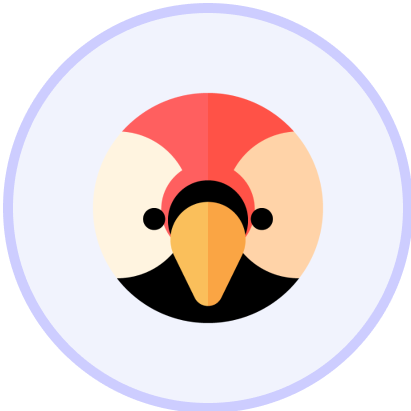
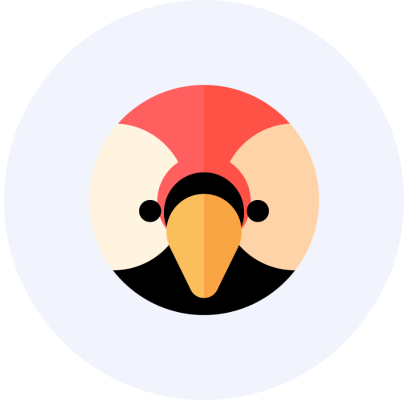
search.png, info_icon_1.png, 프로필 아이콘(코기, 피기, 앵무, 햄, 패드로) 선택 이미지 변경

diff --git a/lib/view/meet/meet_user_info.dart b/lib/view/meet/meet_user_info.dart
@@ -124,10 +124,19 @@ class MeetUserInfo extends StatelessWidget {
               SizedBox(width: 23.0.w),
               Stack(
                 children: [
-                  Image.asset(
-                    user.profile_icon,
-                    height: 120.h,
-                    width: 120.w,
+                  Container(
+                    decoration: BoxDecoration(
+                      border: Border.all(
+                        color: UsedColor.b_line,
+                        width: 1.5.h,
+                      ),
+                      borderRadius: BorderRadius.circular(120.r),
+                    ),
+                    child: Image.asset(
+                      user.profile_icon,
+                      height: 120.h,
+                      width: 120.w,
+                    ),
                   ),
                   Positioned(
                     top: 15.0.h,
@@ -140,7 +149,12 @@ class MeetUserInfo extends StatelessWidget {
                         shape: BoxShape.circle,
                       ),
                       child: Padding(
-                        padding: EdgeInsets.all(4.0.w),
+                        padding: EdgeInsets.only(
+                          top: 4.0.h,
+                          right: 4.0.w,
+                          left: 5.0.w,
+                          bottom: 5.0.h,
+                        ),
                         child: Image.asset(
                           ImagePath.infoIcon1,
                           height: 18.h,

diff --git a/lib/view/sign_up/sign_up_detail/sign_up_detail_five.dart b/lib/view/sign_up/sign_up_detail/sign_up_detail_five.dart
@@ -19,19 +19,18 @@ class SignUpDetailFive extends StatelessWidget {
       body: Column(
         crossAxisAlignment: CrossAxisAlignment.start,
         children: [
-         
-            Padding(
-              padding: EdgeInsets.only(
-                top: 58.h,
-              ),
-              child: _header(context),
+          Padding(
+            padding: EdgeInsets.only(
+              top: 58.h,
             ),
+            child: _header(context),
+          ),
           SizedBox(height: 17.h),
           _progressBar(),
           _main(context),
           const Spacer(),
           Padding(
-            padding: EdgeInsets.only(left: 32.w, right: 33.w, bottom: 25.h),
+            padding: EdgeInsets.only(left: 32.w, right: 33.w, bottom: 56.h),
             child: _bottom(context),
           ),
         ],
@@ -175,9 +174,7 @@ class SignUpDetailFive extends StatelessWidget {
                     color: isSelected ? UsedColor.button : Colors.white,
                     borderRadius: BorderRadius.circular(14.r),
                     border: Border.all(
-                      color: isSelected
-                          ? UsedColor.button
-                          : UsedColor.b_line,
+                      color: isSelected ? UsedColor.button : UsedColor.b_line,
                       width: 2.5.w,
                     ),
                   ),

diff --git a/lib/view/sign_up/sign_up_detail/sign_up_detail_two.dart b/lib/view/sign_up/sign_up_detail/sign_up_detail_two.dart
@@ -32,7 +32,7 @@ class SignUpDetailTwo extends StatelessWidget {
           _main(context),
           const Spacer(),
           Padding(
-            padding: EdgeInsets.only(left: 32.w, right: 33.w, bottom: 25.h),
+            padding: EdgeInsets.only(left: 32.w, right: 33.w, bottom: 56.h),
             child: _bottom(context),
           ),
         ],
@@ -236,11 +236,26 @@ Widget _buildProfileImage(BuildContext context, String imagePath) {
       padding: EdgeInsets.only(
         left: 13.0.h,
       ),
-      child: Image.asset(
-        isSelected ? signUpDetailViewModel.getIconPath() : imagePath,
-        width: 100.0.h,
-        height: 100.0.h,
-        fit: BoxFit.contain,
+      child: Container(
+        width: 100.w,
+        height: 100.h,
+        decoration: BoxDecoration(
+          border: isSelected
+              ? Border.all(
+                  color: UsedColor.b_line_2,
+                  width: 2.5.h,
+                )
+              : Border.all(
+                  color: Colors.white,
+                ),
+          borderRadius: BorderRadius.circular(100.r),
+        ),
+        child: Image.asset(
+          isSelected ? signUpDetailViewModel.getIconPath() : imagePath,
+          width: 100.w,
+          height: 100.h,
+          fit: BoxFit.cover,
+        ),
       ),
     ),
   );

diff --git a/lib/view/meet/meet_keyword.dart b/lib/view/meet/meet_keyword.dart
@@ -266,16 +266,15 @@ class MeetKeyWord extends StatelessWidget {
             }
           },
           height: 56.h,
-          text: meetKeywordViewModel.keywordCheckComplted ? '저장' : '저장',
+          text: '저장',
           enable: meetKeywordViewModel.keywordCheckComplted,
           backgroundColor: meetKeywordViewModel.keywordCheckComplted
               ? UsedColor.button
               : UsedColor.button_g,
-          textStyle: TextStyle(
-            color: meetKeywordViewModel.keywordCheckComplted
-                ? Colors.white
-                : UsedColor.text_2,
-          ),
+          textStyle: AppTextStyles.PR_SB_20.copyWith(
+              color: meetKeywordViewModel.keywordCheckComplted
+                  ? Colors.white
+                  : UsedColor.text_2),
         );
       }),
     );

diff --git a/lib/view/meet/meet_create.dart b/lib/view/meet/meet_create.dart
@@ -724,7 +724,7 @@ class MeetCreate extends StatelessWidget {
                 ],
               ),
             );
-          }).toList(),
+          }),
         ],
       ),
     );
@@ -776,11 +776,10 @@ class MeetCreate extends StatelessWidget {
           backgroundColor: viewModel.allCheckCompleted
               ? UsedColor.button
               : UsedColor.button_g,
-          textStyle: TextStyle(
-            color:
-                viewModel.allCheckCompleted ? Colors.white : UsedColor.text_2,
-            fontSize: 20.sp,
-          ),
+          textStyle: AppTextStyles.PR_SB_20.copyWith(
+              color: viewModel.allCheckCompleted
+                  ? Colors.white
+                  : UsedColor.text_2),
         );
       },
     );

diff --git a/lib/view/meet/meet_category.dart b/lib/view/meet/meet_category.dart
@@ -293,12 +293,12 @@ class MeetCategory extends StatelessWidget {
             }
           },
           height: 56.h,
-          text: viewModel.isCategorySelectionComplete ? '저장' : '저장 안됨',
+          text: '저장',
           enable: viewModel.isCategorySelectionComplete,
           backgroundColor: viewModel.isCategorySelectionComplete
               ? UsedColor.button
               : UsedColor.button_g,
-          textStyle: TextStyle(
+          textStyle: AppTextStyles.PR_SB_20.copyWith(
             color: viewModel.isCategorySelectionComplete
                 ? Colors.white
                 : UsedColor.text_2,

diff --git a/lib/view/meet/meet_location.dart b/lib/view/meet/meet_location.dart
@@ -366,12 +366,10 @@ class MeetLocation extends StatelessWidget {
           backgroundColor: viewModel.isLocationSelectionComplete
               ? UsedColor.button
               : UsedColor.button_g,
-          textStyle: TextStyle(
-            color: viewModel.isLocationSelectionComplete
-                ? Colors.white
-                : UsedColor.text_2,
-            fontSize: 20.sp,
-          ),
+          textStyle: AppTextStyles.PR_SB_20.copyWith(
+              color: viewModel.isLocationSelectionComplete
+                  ? Colors.white
+                  : UsedColor.text_2),
         );
       },
     );

diff --git a/lib/view/meet/meet_filter_area.dart b/lib/view/meet/meet_filter_area.dart
@@ -357,12 +357,10 @@ class MeetFilterArea extends StatelessWidget {
           backgroundColor: viewModel.isAreaSelectionComplete
               ? UsedColor.button
               : UsedColor.button_g,
-          textStyle: TextStyle(
-            color: viewModel.isAreaSelectionComplete
-                ? Colors.white
-                : UsedColor.text_2,
-            fontSize: 20.sp,
-          ),
+          textStyle: AppTextStyles.PR_SB_20.copyWith(
+              color: viewModel.isAreaSelectionComplete
+                  ? Colors.white
+                  : UsedColor.text_2),
         );
       },
     );

diff --git a/lib/view/sign_up/sign_up_detail/sign_up_detail_one_contents.dart b/lib/view/sign_up/sign_up_detail/sign_up_detail_one_contents.dart
@@ -10,7 +10,7 @@ import 'package:meet_up/view_model/sign_up/sign_up_detail_view_model.dart';
 import 'package:provider/provider.dart';
 
 class SignUpDetailOneContents extends StatelessWidget {
-  const SignUpDetailOneContents({Key? key}) : super(key: key);
+  const SignUpDetailOneContents({super.key});
 
   @override
   Widget build(BuildContext context) {
@@ -59,7 +59,7 @@ class SignUpDetailOneContents extends StatelessWidget {
           ),
         ),
         SizedBox(
-          height: 25.h,
+          height: 56.h,
         )
       ],
     );

diff --git a/lib/view/meet/meet_filter.dart b/lib/view/meet/meet_filter.dart
@@ -609,9 +609,8 @@ class MeetFilterMain extends StatelessWidget {
           enable: isAllCompleted,
           backgroundColor:
               isAllCompleted ? UsedColor.button : UsedColor.button_g,
-          textStyle: TextStyle(
+          textStyle: AppTextStyles.PR_SB_20.copyWith(
             color: isAllCompleted ? Colors.white : UsedColor.text_2,
-            fontSize: 20.sp,
           ),
         );
       },

diff --git a/lib/util/color.dart b/lib/util/color.dart
@@ -21,6 +21,7 @@ class UsedColor {
   static Color red = const Color(0xffff7878);
   static Color slected = const Color(0xffe6e6e6);
   static Color b_line = const Color(0xffd2d8f8);
+  static Color b_line_2 = const Color(0xffcdcdff);
   static Color progress_bar = const Color(0xffa2a3ff);
   static Color progress_bar2 = const Color(0xfff1f3fd);
   static Color charcoal_black = const Color(0xff282828);

diff --git a/lib/view/sign_up/sign_up_detail/sign_up_detail_three.dart b/lib/view/sign_up/sign_up_detail/sign_up_detail_three.dart
@@ -29,7 +29,7 @@ class SignUpDetailThree extends StatelessWidget {
           _main(context),
           const Spacer(),
           Padding(
-            padding: EdgeInsets.only(left: 32.w, right: 33.w, bottom: 25.h),
+            padding: EdgeInsets.only(left: 32.w, right: 33.w, bottom: 56.h),
             child: _bottom(context),
           ),
         ],
